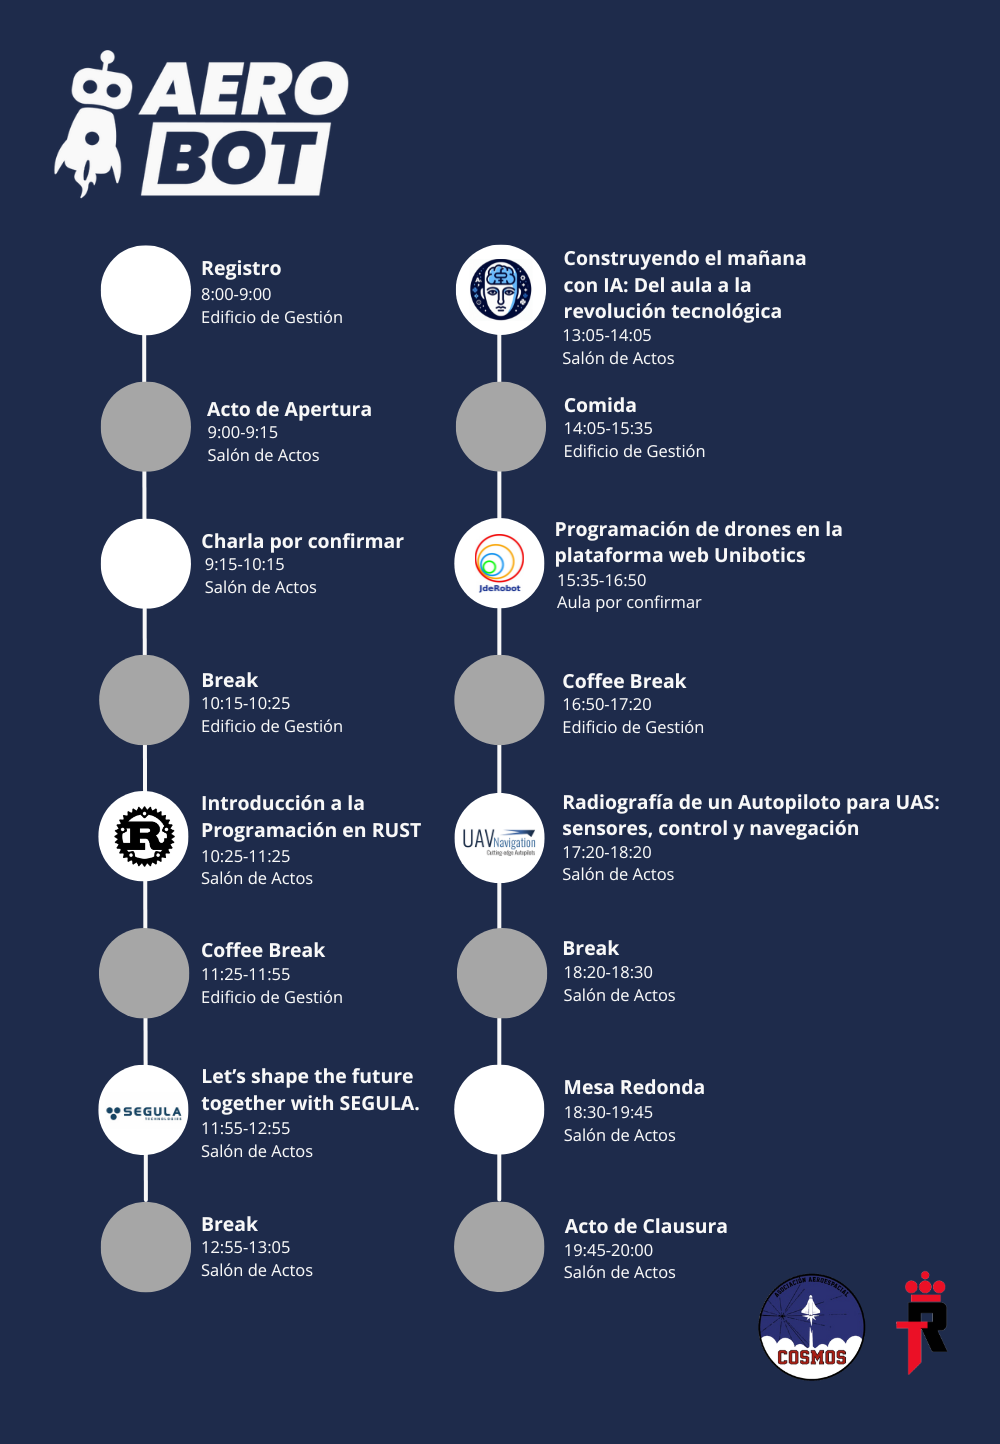
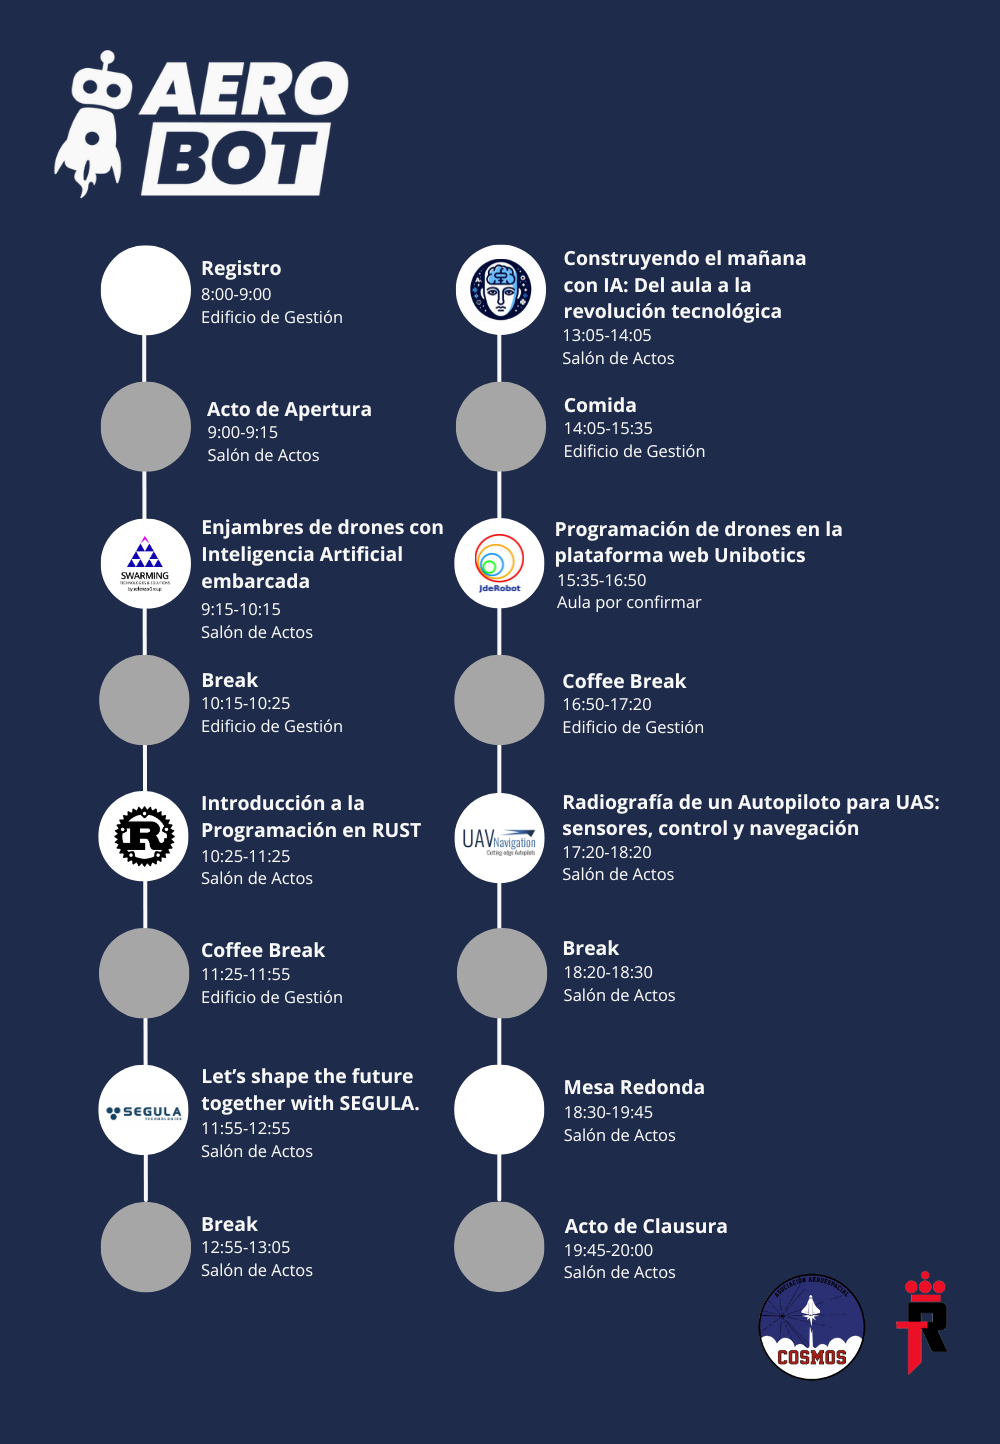
sts

Changed region(s): [[0.124, 0.3428, 0.434, 0.4363]]

diff --git a/index.html b/index.html
@@ -109,7 +109,7 @@
                 <i class="fas fa-plus fa-3x"></i>
               </div>
             </div>
-            <img class="img-fluid" src="img/pendiente.png" alt="">
+            <img class="img-fluid" src="img/sts.png" alt="">
           </div>
         </div>
 
@@ -216,10 +216,10 @@
         <span class="session-time">9:15 - 10:15</span>
         <span class="session-track">Edificio Gestión, Salón de Actos</span>
         <br>
-        <h4 class="session-title">Empresa por confirmar
+        <h4 class="session-title">Enjambres de drones con inteligencia artificial embarcada.
         </h4>
         <h4 class="session-presenter">
-            Ponente por confirmar
+          Swarming Technologies and Solutions SL
         </h4>
       </div>
 
@@ -565,7 +565,7 @@
             <div class="row justify-content-center">
               <div class="col-lg-8">
                 <!-- Portfolio Modal - Title -->
-                <h2 class="portfolio-modal-title text-secondary text-uppercase ">Empresa por confirmar</h2>
+                <h2 class="portfolio-modal-title text-secondary text-uppercase ">Enjambres de drones con inteligencia artificial embarcada.</h2>
                 <!-- Icon Divider -->
                 <div class="divider-custom">
                   <div class="divider-custom-line"></div>
@@ -575,9 +575,17 @@
                   <div class="divider-custom-line"></div>
                 </div>
                 <!-- Portfolio Modal - Image -->
-                <img class="img-fluid rounded mb-5" src="img/pendiente.png" alt="">
+                <img class="img-fluid rounded mb-5" src="img/sts.png" alt="">
+                <p class="font-weight-bold">Swarming Technologies and Solutions SL</p>
                 <!-- Portfolio Modal - Text -->
-                <p class="mb-5">El equipo de aerobot estamos trabajando para poder ofrecer la mejor experiencia a nuestros asistentes. En breve daremos a conocer la empresa que nos acompañará en el evento. Muchas gracias por su paciencia.</p>
+                <p class="mb-5">Desde Swarming Technologies and Solutions os contaremos los desarrollos llevados a cabo en el ámbito de enjambres de drones con inteligencia artificial embarcada. Trataremos los siguientes temas:
+                  <br>¿Qué es un enjambre de drones? 
+                  <br>Aplicaciones de enjambres
+                  <br>Tecnologías empleadas
+                  <br>Equipo de trabajo
+                  <br>Proyectos llevados a cabo en Swarming Technologies and Solutions
+                  <br>Participación en maniobras
+                  <br>Líneas futuras  <br><br><a href="https://swarmingts.com/" target="_blank" style="color:blue" class="video-link">🌐 Web</a><br></p>
                 <button class="btn btn-primary" href="#" data-dismiss="modal">
                   <i class="fas fa-times fa-fw"></i>
                   Close Window
@@ -737,6 +745,7 @@
                 </div>
                 <!-- Portfolio Modal - Image -->
                 <img class="img-fluid rounded mb-5" src="img/jderobot.png" alt="">
+                <p class="font-weight-bold">Jose María Cañas Plaza</p>
                 <!-- Portfolio Modal - Text -->
                 <p class="mb-5">En este taller se enseñarán las maneras habituales de programar drones (px4, ardupilot, misiones, autopiloto, control de bajo nivel, de nivel intermedio, estaciones base...). También programarás en Python un drone en una mision de rescate utilizando el simulador Gazebo y la plataforma web Unibotics, de la asociación JdeRobot [2]. Igualmente se comentarán varios desarrollos actuales open source de la asociación internacional JdeRobot relativos a drones: transición a Aerostack2 (en vez de px4) y a Gazebo Harmonic (en vez de Gazebo11) [1]. <br> <br> <a href="https://m.youtube.com/watch?v=tZtsnY21jJM" target="_blank" style="color:blue" class="video-link">🌐 [1] Migration to Gazebo Harmonic</a><br><a href="https://jderobot.github.io/" target="_blank" style="color:blue" class="video-link">🌐 [2] JdeRobot GitHub</a><br><a href="https://x.com/jderobot?lang=en" target="_blank" style="color:blue" class="video-link">🌐 JdeRobot X Profile</a><br><a href="https://www.linkedin.com/company/jderobot" target="_blank" style="color:blue" class="video-link">💻 JdeRobot Linkedin</a><br>  
                 </p>
